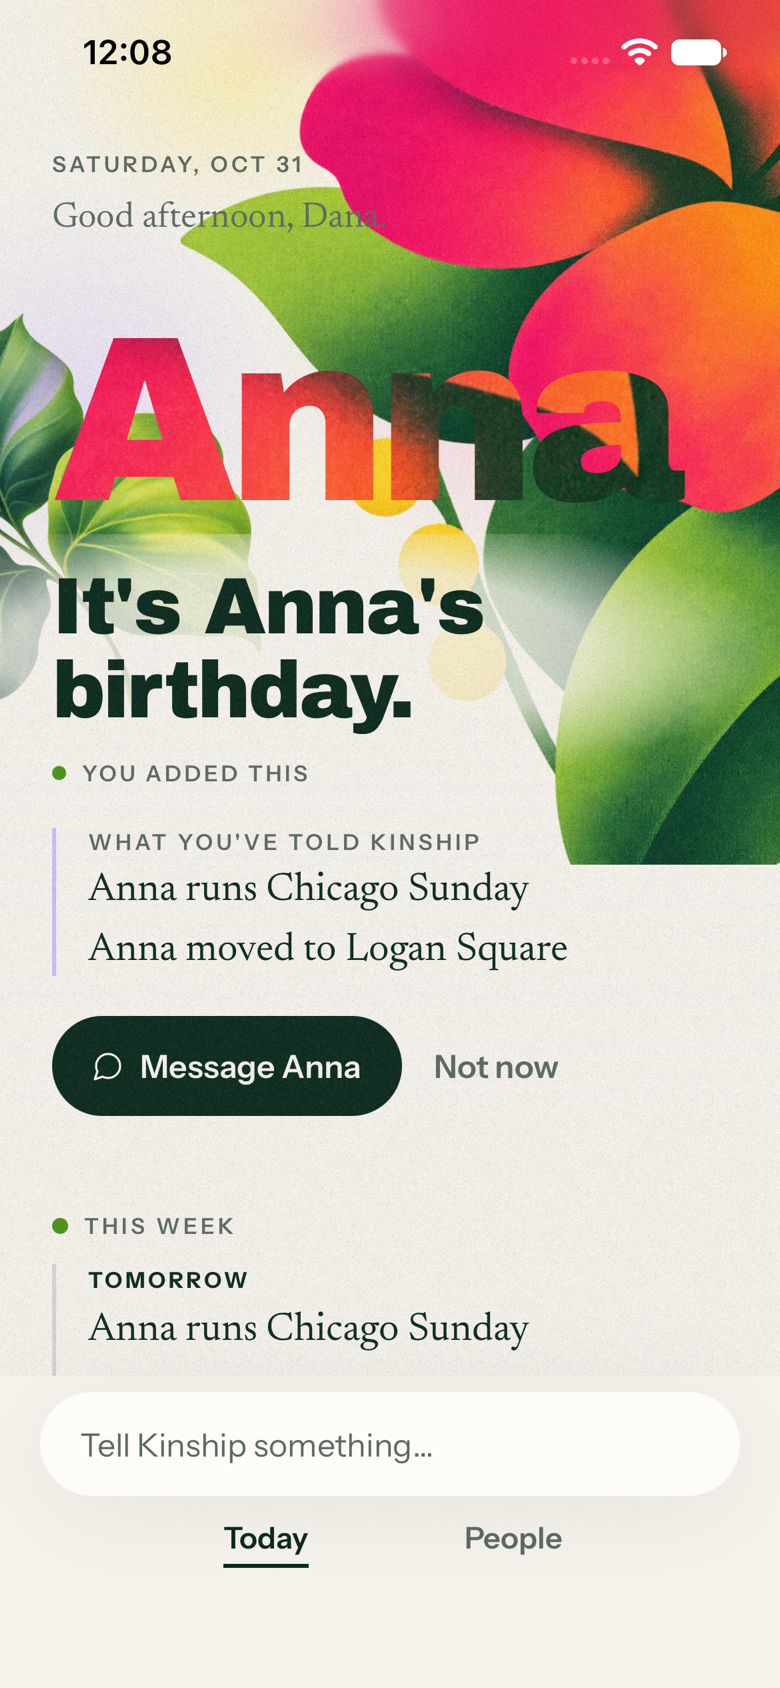
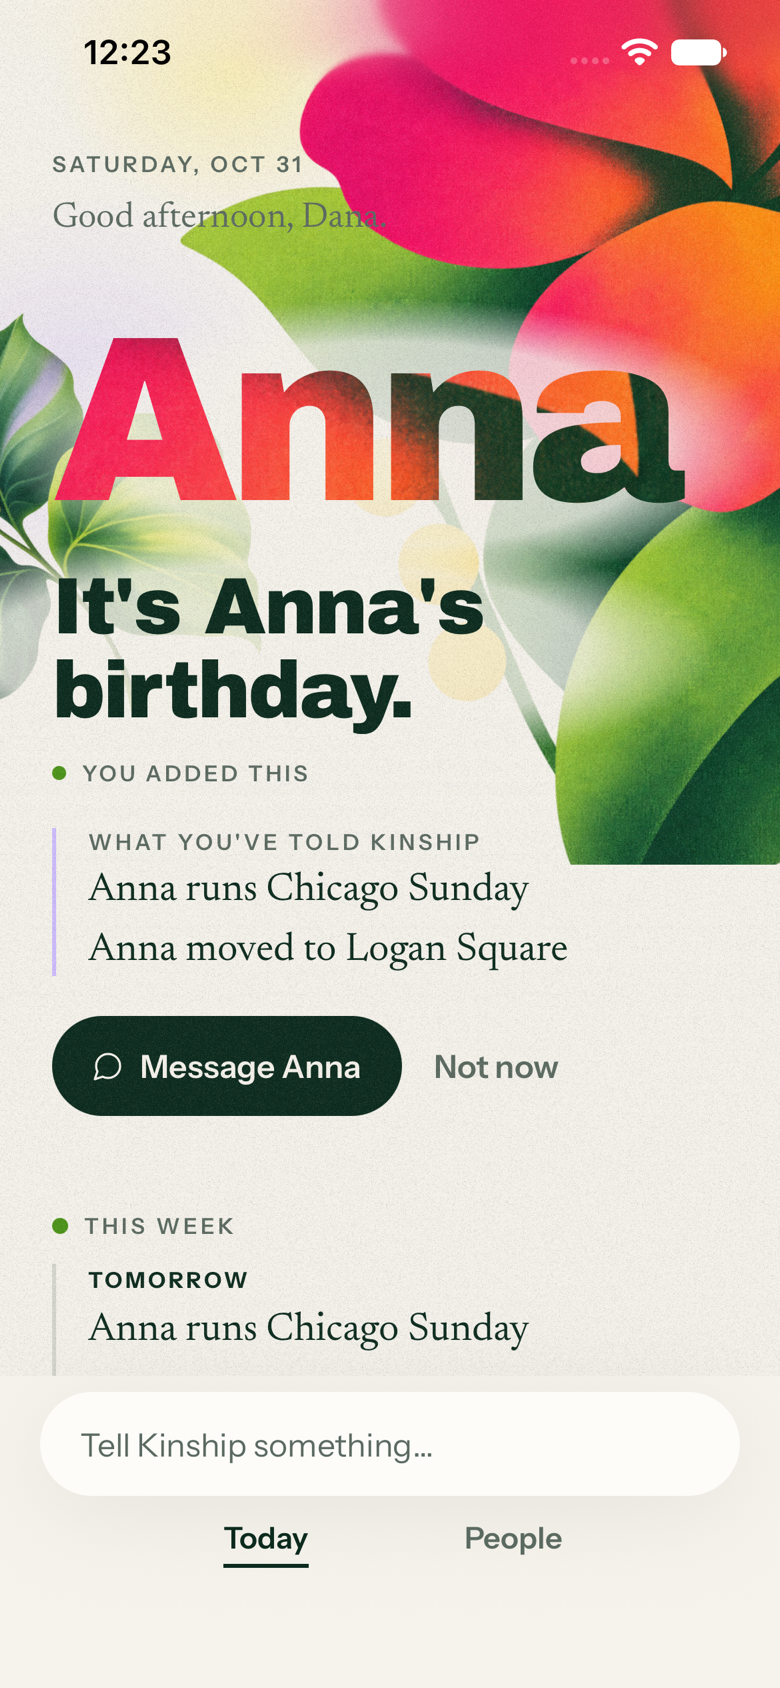
WS-2 polish from the final review: Edit-sheet explanations under their controls, the dock hides its bar as soon as the field has focus, Welcome tidied, the bloom-filled name on paper
(1) Welcome: less top padding and no left leaf crossing the sub line, so the
example is not clipped as hard by the pinned actions. (2) The keyboard-up
dock drew the two-item bar twice for a moment (the layout's keyboard height
arrives after the focus): the dock now hides its own bar the moment the field
has focus; the keyboard's accessory bar is the one that remains (checked on
the 17e). (3) Edit sheet: each hold explanation sits under its own control
(Pause, Hold as remembered, Resume), a rule sets the controls apart from the
name field and its Save. (4) The bloom-filled name (pink on pink) now has the
soft paper ground behind it; TextScrim's ellipse is fitted inside its box and
widened so no edge shows; checked natively on Today (light).

Changed region(s): [[0.3385, 0.154, 0.9846, 0.4621], [0.0, 0.2156, 0.3385, 0.3389], [0.1538, 0.0308, 0.1846, 0.0616]]

diff --git a/src/features/tell/Pickers.tsx b/src/features/tell/Pickers.tsx
@@ -268,26 +268,26 @@ export function NamePane({ initial, onSave, onCancel, onRemove, state, short, on
         <Pill variant="primary" label="Save" disabled={!name.trim() || name.trim() === initial} onPress={() => onSave(name)} />
       </View>
       {state && held && onResume ? (
-        <View style={{ marginTop: space.xl }}>
-          <Small>{`${HOLD_COPY[state].line} · ${HOLD_COPY[state].explain(who)}`}</Small>
-          <View style={{ alignItems: "flex-start", marginTop: space.s, marginLeft: -space.xs }}>
+        <View style={{ marginTop: space.xl, paddingTop: space.l, borderTopWidth: 1, borderTopColor: p.hairline }}>
+          <View style={{ alignItems: "flex-start", marginLeft: -space.xs }}>
             <Pill variant="quiet" size="small" label={HOLD_COPY[state].resume} accessibilityLabel={`${HOLD_COPY[state].resume} ${who}`} onPress={onResume} />
           </View>
+          <Small style={{ marginTop: space.xs }}>{`${HOLD_COPY[state].line} · ${HOLD_COPY[state].explain(who)}`}</Small>
         </View>
       ) : null}
       {state === "active" && onHold ? (
-        <View style={{ marginTop: space.xl, gap: space.m }}>
+        <View style={{ marginTop: space.xl, paddingTop: space.l, borderTopWidth: 1, borderTopColor: p.hairline, gap: space.l }}>
           <View>
-            <Small>{HOLD_COPY.paused.explain(who)}</Small>
-            <View style={{ alignItems: "flex-start", marginTop: space.xs, marginLeft: -space.xs }}>
+            <View style={{ alignItems: "flex-start", marginLeft: -space.xs }}>
               <Pill variant="quiet" size="small" label={HOLD_COPY.paused.action} accessibilityLabel={`${HOLD_COPY.paused.action} ${who}`} onPress={() => onHold("paused")} />
             </View>
+            <Small style={{ marginTop: space.xs }}>{HOLD_COPY.paused.explain(who)}</Small>
           </View>
           <View>
-            <Small>{HOLD_COPY.remembered.explain(who)}</Small>
-            <View style={{ alignItems: "flex-start", marginTop: space.xs, marginLeft: -space.xs }}>
+            <View style={{ alignItems: "flex-start", marginLeft: -space.xs }}>
               <Pill variant="quiet" size="small" label={HOLD_COPY.remembered.action} accessibilityLabel={`${HOLD_COPY.remembered.action}: ${who}`} onPress={() => onHold("remembered")} />
             </View>
+            <Small style={{ marginTop: space.xs }}>{HOLD_COPY.remembered.explain(who)}</Small>
           </View>
         </View>
       ) : null}

diff --git a/src/ui/garden/TextScrim.tsx b/src/ui/garden/TextScrim.tsx
@@ -8,7 +8,7 @@ import Svg, { Defs, Ellipse, RadialGradient, Stop } from "react-native-svg";
 import { GUTTER, space } from "@/design/tokens";
 import { usePalette } from "../theme";
 
-export function TextScrim({ strength = 0.88, bleed = GUTTER, center = 0.5 }: {
+export function TextScrim({ strength = 0.88, bleed = GUTTER + space.xl, center = 0.5 }: {
   strength?: number;
   /** How far it reaches past the content box on each side. */
   bleed?: number;
@@ -23,17 +23,17 @@ export function TextScrim({ strength = 0.88, bleed = GUTTER, center = 0.5 }: {
       accessibilityElementsHidden
       importantForAccessibility="no-hide-descendants"
       testID="text-scrim"
-      style={{ position: "absolute", top: -space.l, bottom: -space.l, left: -bleed, right: -bleed }}
+      style={{ position: "absolute", top: -space.xl, bottom: -space.xl, left: -bleed, right: -bleed }}
     >
       <Svg width="100%" height="100%" style={StyleSheet.absoluteFill}>
         <Defs>
           <RadialGradient id={id} cx="50%" cy="50%" rx="50%" ry="50%">
             <Stop offset="0" stopColor={p.paper} stopOpacity={strength} />
-            <Stop offset="0.6" stopColor={p.paper} stopOpacity={strength * 0.9} />
+            <Stop offset="0.7" stopColor={p.paper} stopOpacity={strength * 0.9} />
             <Stop offset="1" stopColor={p.paper} stopOpacity={0} />
           </RadialGradient>
         </Defs>
-        <Ellipse cx={`${center * 100}%`} cy="50%" rx="62%" ry="62%" fill={`url(#${id})`} />
+        <Ellipse cx={`${center * 100}%`} cy="50%" rx="50%" ry="50%" fill={`url(#${id})`} />
       </Svg>
     </View>
   );

diff --git a/src/ui/garden/PosterName.tsx b/src/ui/garden/PosterName.tsx
@@ -5,10 +5,11 @@
 // thing on the page). Without a photo it can be filled with the bloom.
 import React, { useState } from "react";
 import { Text, useWindowDimensions, View, type TextStyle } from "react-native";
-import { GUTTER, posterMetrics, press, type } from "@/design/tokens";
+import { GUTTER, posterMetrics, press, space, type } from "@/design/tokens";
 import { Pressable } from "../Pressable";
 import { usePalette } from "../theme";
 import { BloomName } from "./BloomName";
+import { TextScrim } from "./TextScrim";
 
 /** Archivo Black's average advance, as a share of the size, for mixed-case names. */
 const ADVANCE = 0.66;
@@ -64,7 +65,13 @@ export function PosterName({ name, max = type.poster.fontSize, min = 44, fill = 
   const style = posterStyle(fontSize);
   const height = (style.lineHeight as number) * lines.length;
   const body = fill === "bloom"
-    ? <BloomName lines={lines} textStyle={style} width={width} height={height} />
+    ? (
+      <View>
+        {/* Pink name on the pink bloom was near-illegible: a soft paper ground under it (the art stays around it). */}
+        <TextScrim strength={0.9} bleed={GUTTER} />
+        <BloomName lines={lines} textStyle={style} width={width} height={height} />
+      </View>
+    )
     : (
       <Text accessibilityRole="header" maxFontSizeMultiplier={1} style={[style, { color: p.ink, width }]}>
         {lines.join("\n")}

diff --git a/src/features/welcome/WelcomeView.tsx b/src/features/welcome/WelcomeView.tsx
@@ -129,17 +129,16 @@ export function WelcomeView(props: WelcomeViewProps) {
       <StatusBar style={night ? "light" : "dark"} />
       <ScrollView
         style={{ flex: 1 }}
-        contentContainerStyle={{ flexGrow: 1, paddingHorizontal: GUTTER, paddingTop: insets.top + space.x5 + space.x5, paddingBottom: space.xl }}
+        contentContainerStyle={{ flexGrow: 1, paddingHorizontal: GUTTER, paddingTop: insets.top + space.x5 + space.x3, paddingBottom: space.xxl }}
       >
         <View pointerEvents="none" style={{ position: "absolute", top: 0, left: 0, right: 0, bottom: 0 }}>
           <DawnWash kind="joyful" />
           <Botanical art="bloom" width={300} top={-90} right={-70} />
-          <Botanical art="leaves" width={190} top={220} left={-120} rotate={-28} flip dim />
         </View>
         <Label>{WELCOME_COPY.label}</Label>
         <Display style={{ marginTop: space.m, maxWidth: "88%" }}>{WELCOME_COPY.promise}</Display>
         <Body style={{ marginTop: space.m }}>{WELCOME_COPY.sub}</Body>
-        <View style={{ marginTop: space.xxl }}><ExampleCard onPress={props.onHowItWorks} /></View>
+        <View style={{ marginTop: space.xl }}><ExampleCard onPress={props.onHowItWorks} /></View>
       </ScrollView>
 
       <View style={{ paddingHorizontal: GUTTER, paddingBottom: insets.bottom + space.xl, gap: space.m }}>

diff --git a/src/features/tell/TellDock.tsx b/src/features/tell/TellDock.tsx
@@ -437,7 +437,7 @@ export function TellDock({ current, onGo, typing }: { current: NavKey; onGo: (to
         onGo(to);
       }}
       inputRef={input}
-      typing={typing}
+      typing={typing || open}
       about={aboutName}
       autoFocus={focusNow}
       collapsed={!open && draft.trim() ? {
